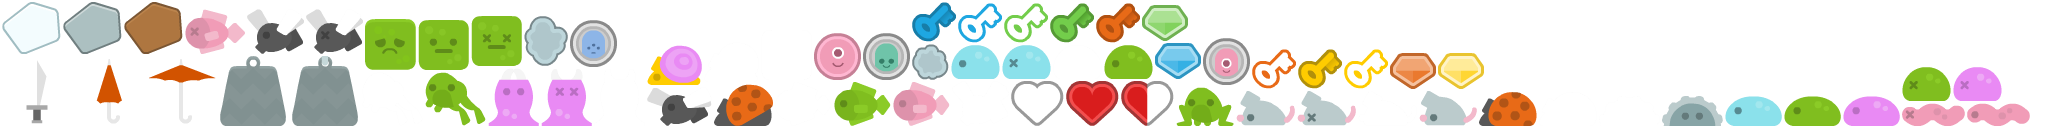
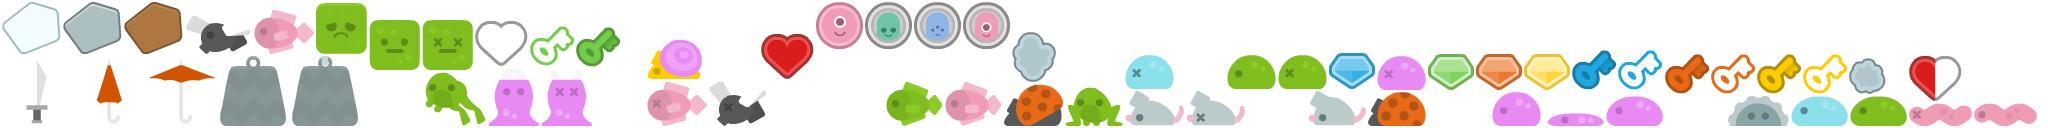
added fly and tweaked rendering and art

diff --git a/core/src/com/madeso/spaceman/SpacemanGame.kt b/core/src/com/madeso/spaceman/SpacemanGame.kt
@@ -158,10 +158,11 @@ class Alien(assets:Assets, private val world: SpacemanWorld, private val startX 
   }
 
   override fun init(remote: ObjectRemote) {
-    remote.debug = false
+    remote.debug = true
     remote.keepWithinHorizontalWorld = true
-    remote.setRenderSize(70f, 70f * 2)
     remote.teleport(startX, startY)
+    remote.collisionRect.dx = remote.collisionRect.width / 2f
+    remote.setRenderScale(0.6f)
   }
 
   val stand = Animation(1.0f, assets.pack.newSprite("player/alienGreen_stand"))
@@ -173,7 +174,6 @@ class Alien(assets:Assets, private val world: SpacemanWorld, private val startX 
 class Coin(assets: Assets, world: SpacemanWorld, private val startX: Float, private val startY: Float) : ObjectController {
   override fun init(remote: ObjectRemote) {
     remote.teleport(startX, startY)
-    remote.setRenderSize(70f, 70f)
     remote.collisionRect.height =36f
     remote.collisionRect.width =36f
     remote.collisionRect.dx = (70f - remote.collisionRect.width) / 2f
@@ -196,10 +196,9 @@ class Slime(assets: Assets, world: SpacemanWorld, private val startX: Float, pri
 
   override fun init(remote: ObjectRemote) {
     remote.teleport(startX, startY)
-    remote.setRenderSize(49f, 34f)
-    remote.collisionRect.height =49f
-    remote.collisionRect.width =34f
-    remote.collisionRect.dx = (70f - remote.collisionRect.width) / 2f
+    remote.collisionRect.height =34f
+    remote.collisionRect.width =49f
+    remote.collisionRect.dx = 0f
     remote.collisionRect.dy = 0f
   }
 
@@ -216,11 +215,9 @@ class Slime(assets: Assets, world: SpacemanWorld, private val startX: Float, pri
       squashTimer -= delta
 
       if( squashTimer > 0f ) {
-        remote.setRenderSize(57f, 13f)
         remote.setAnimation(squashed)
       }
       else {
-        remote.setRenderSize(49f, 34f)
         remote.setAnimation(basic)
       }
     }
@@ -242,8 +239,7 @@ class Slime(assets: Assets, world: SpacemanWorld, private val startX: Float, pri
 class SpringBoard(assets: Assets, world: SpacemanWorld, private val startX: Float, private val startY: Float) : ObjectController {
   override fun init(remote: ObjectRemote) {
     remote.teleport(startX, startY)
-    remote.setRenderSize(70f, 70f)
-    remote.collisionRect.height =70f
+    remote.collisionRect.height =49f
     remote.collisionRect.width =70f
     remote.collisionRect.dx = 0f
     remote.collisionRect.dy = 0f
@@ -278,7 +274,6 @@ class SpringBoard(assets: Assets, world: SpacemanWorld, private val startX: Floa
 class Spikes(assets: Assets, world: SpacemanWorld, private val startX: Float, private val startY: Float) : ObjectController {
   override fun init(remote: ObjectRemote) {
     remote.teleport(startX, startY)
-    remote.setRenderSize(70f, 70f)
     remote.collisionRect.height =35f
     remote.collisionRect.width =70f
     remote.collisionRect.dx = 0f
@@ -294,11 +289,29 @@ class Spikes(assets: Assets, world: SpacemanWorld, private val startX: Float, pr
   val basic = Animation(1.0f, assets.pack.newSprite("items/spikes"))
 }
 
+class EnemyFly(assets: Assets, world: SpacemanWorld, private val startX: Float, private val startY: Float) : ObjectController {
+  override fun init(remote: ObjectRemote) {
+    remote.debug = true
+    remote.teleport(startX, startY)
+    remote.collisionRect.height =34f
+    remote.collisionRect.width =49f
+    remote.collisionRect.dx = 0f
+    remote.collisionRect.dy = 0f
+  }
+
+  override fun act(delta: Float, remote: ObjectRemote) {
+  }
+
+  override fun dispose() {
+  }
+
+  val basic = Animation(0.2f, assets.pack.newSprite("enemies/fly"), assets.pack.newSprite("enemies/fly_fly")).setLooping()
+}
+
 class SetDir(assets: Assets, world: SpacemanWorld, private val startX: Float, private val startY: Float, val isRight : Boolean) : ObjectController {
   override fun init(remote: ObjectRemote) {
     remote.teleport(startX, startY)
     remote.visible = false
-    remote.setRenderSize(70f, 70f)
     remote.collisionRect.height =70f
     remote.collisionRect.width =70f
     remote.collisionRect.dx = 0f
@@ -413,6 +426,12 @@ class SpacemanSuperGame(game:Game) : SuperGame(game) {
       .registerCreator("slime",object: ObjectCreator<SpacemanSuperGame, SpacemanWorld> {
         override fun create(game: SpacemanSuperGame, world: SpacemanWorld, map: ObjectCreatorDispatcher, x: Float, y: Float, tile: TiledMapTileMapObject) {
           val slime = Slime(assets, world, x, y)
+          map.addObject(slime.basic, world, slime)
+        }
+      })
+      .registerCreator("fly",object: ObjectCreator<SpacemanSuperGame, SpacemanWorld> {
+        override fun create(game: SpacemanSuperGame, world: SpacemanWorld, map: ObjectCreatorDispatcher, x: Float, y: Float, tile: TiledMapTileMapObject) {
+          val slime = EnemyFly(assets, world, x, y)
           map.addObject(slime.basic, world, slime)
         }
       })

diff --git a/core/src/com/madeso/spaceman/OrthoMap.kt b/core/src/com/madeso/spaceman/OrthoMap.kt
@@ -41,7 +41,7 @@ interface ObjectRemote {
   fun teleport(x:Float, y:Float)
   fun move(dx:Float, dy:Float)
 
-  fun setRenderSize(width : Float, height : Float)
+  fun setRenderScale(scale : Float)
   var debug : Boolean
   val outside : CollisionFlags
   var collisionRect : CollisionRect
@@ -647,7 +647,7 @@ class PhysicalWorldObjectRenderer : Actor() {
     super.draw(batch, parentAlpha)
     val master = this.master
     if( master == null ) throw Exception("master was null")
-    master.render(batch ?: throw Exception("batch was null"), width, height)
+    master.render(batch ?: throw Exception("batch was null"), scaleX, scaleY)
   }
 
   override fun drawDebug(shapes: ShapeRenderer?) {
@@ -674,7 +674,6 @@ class PhysicalWorldObject(private var animation : Animation, private val world: 
   private var targetY = 0f
   private var suggestedX = 0f
   private var suggestedY = 0f
-  private val drawSuggested = false
   private val collideWithWorld = true
   var animationTime = 0f
 
@@ -745,9 +744,9 @@ class PhysicalWorldObject(private var animation : Animation, private val world: 
       override val lastCollision: CollisionFlags
         get() = latestFlags
 
-      override fun setRenderSize(width: Float, height: Float) {
-        self.renderObject.width = width
-        self.renderObject.height = height
+      override fun setRenderScale(scale: Float) {
+        self.renderObject.scaleX = scale
+        self.renderObject.scaleY = scale
       }
 
       override fun removeSelf() {
@@ -826,7 +825,7 @@ class PhysicalWorldObject(private var animation : Animation, private val world: 
     controller.dispose()
   }
 
-  fun render(batch: Batch, width: Float, height: Float) {
+  fun render(batch: Batch, sx:Float, sy:Float) {
     if( visible == false ) {
       return
     }
@@ -838,17 +837,13 @@ class PhysicalWorldObject(private var animation : Animation, private val world: 
 
     val animationFrame = animation.getKeyFrame(animationTime)
 
+    val w =animationFrame.regionWidth.toFloat()
+    val h =animationFrame.regionHeight.toFloat()
+
     if (this.isFacingRight) {
-      batch.draw(animationFrame, x, y, width, height)
+      batch.draw(animationFrame, x, y, w/2, 0f, w, h, sx, sy, 0f)
     } else {
-      batch.draw(animationFrame, x + width, y, -width, height)
-    }
-
-
-    if (this.drawSuggested) {
-      batch.setColor(1f, 0f, 0f, 0.5f)
-      batch.draw(animationFrame, suggestedX, suggestedY, width, width)
-      batch.setColor(1f, 1f, 1f, 1f)
+      batch.draw(animationFrame, x + w*sx, y, w/2, 0f, -w, h, sx, sy, 0f)
     }
   }
 
